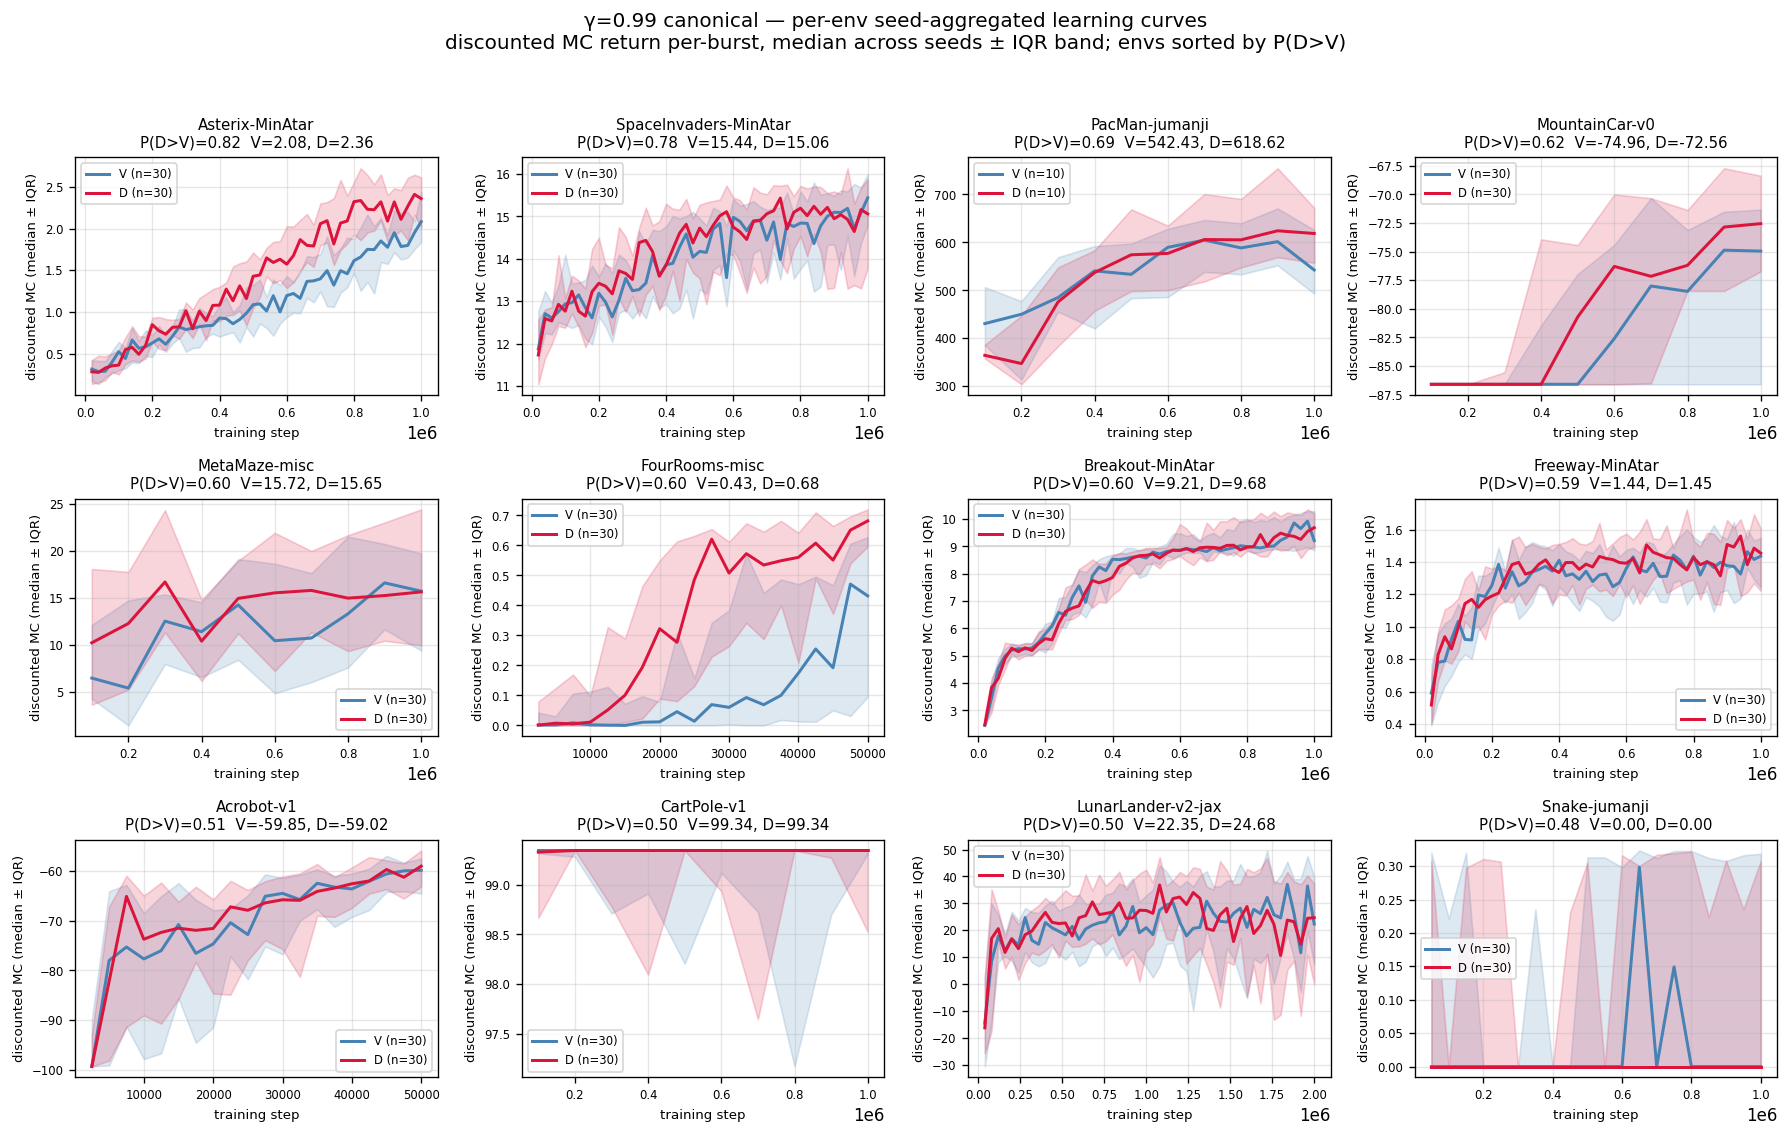
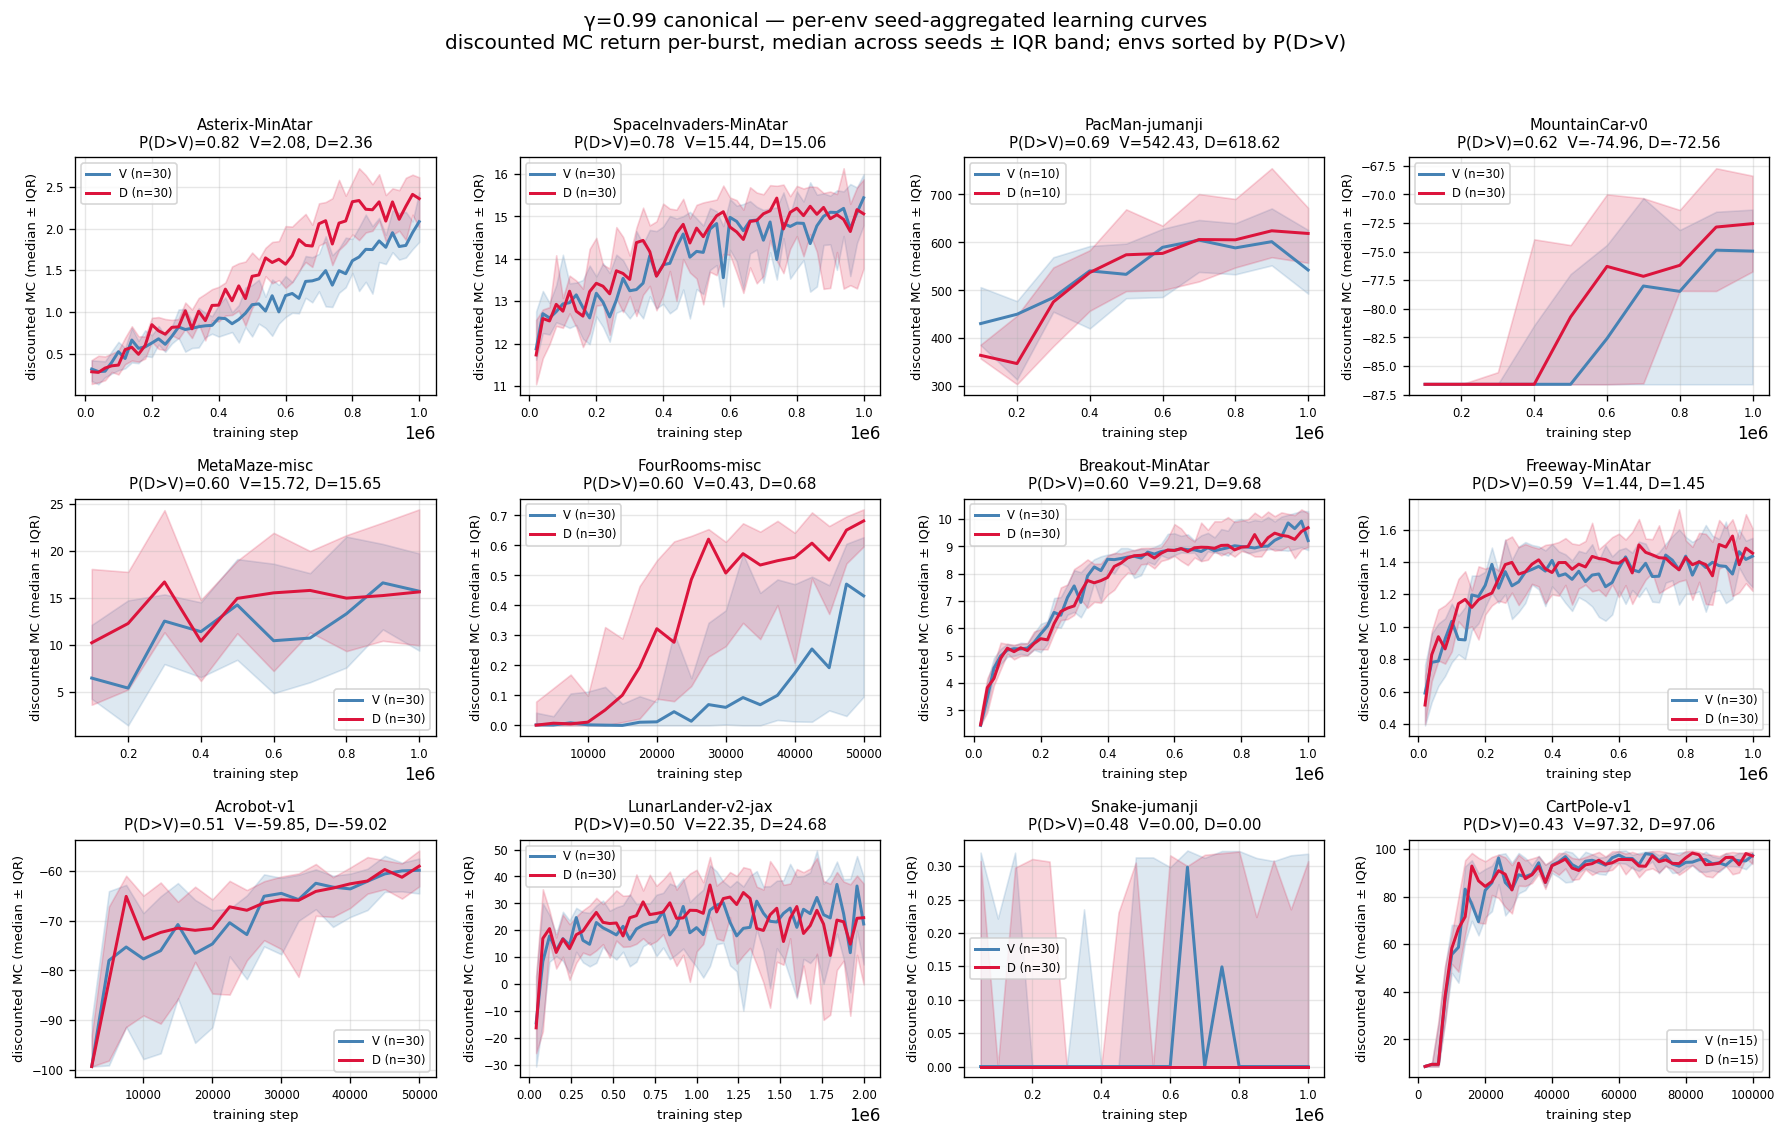
hasselt_clean canonical: replace CartPole γ=0.99 with new full-Q corpus.
Swaps `cartpole_1M_postfix` (10 bursts, n_eps=5, 30 seeds, no Q traces)
for `cartpole_g099_canonical_n_eps20_ckpt` (50 bursts at eval_every=2k,
n_eps=1 since CartPole is effectively deterministic, 15 seeds per arm,
full Q traces + per-burst Q checkpoints). The new corpus is one of the
6 MLP-env sweeps just completed for the proper REDQ relative-bias
analysis.

Effects:
- CANONICAL_G099_CORPORA updated: cartpole_1M_postfix → cartpole_g099_
  canonical_n_eps20_ckpt
- hasselt_clean cache: evicts 60 cells (old) + ingests 30 cells (new,
  with full per-burst Q-shape mediators populated)
- report_per_env_learning_curves.png: CartPole subplot regenerated
  with 50-burst resolution

Other 5 sweeps (FR/Acrobot/MountainCar/MetaMaze/LunarLander full-Q)
will be similarly swapped once they complete + are ingested.

diff --git a/experiments/findings/hasselt_clean/_scope.py b/experiments/findings/hasselt_clean/_scope.py
@@ -98,7 +98,7 @@ CANONICAL_G099_CORPORA: tuple[str, ...] = (
     'lunarlander_2M_30seeds_cpu/g099',       # LL γ=0.99 (2M, 30 seeds — supersedes lunarlander_tuned_sync1000_gpu 1M)
     'metamaze_g099_1M_postfix',              # MetaMaze γ=0.99 (n_episodes=5; flag for re-sweep w/ n=20)
     'mountaincar_1M_postfix',                # MountainCar γ=0.99
-    'cartpole_1M_postfix',                   # CartPole γ=0.99
+    'cartpole_g099_canonical_n_eps20_ckpt',  # CartPole γ=0.99 (NEW: 100k, 15 seeds, full Q traces + ckpts, n_eps=1 — saturated env)
     'snake_1M',                              # Snake γ=0.99 (n_episodes=3 — noisier than rest)
     'pacman_1M_postfix',                     # PacMan γ=0.99 (n_episodes=3, 10 seeds/arm)
 )
